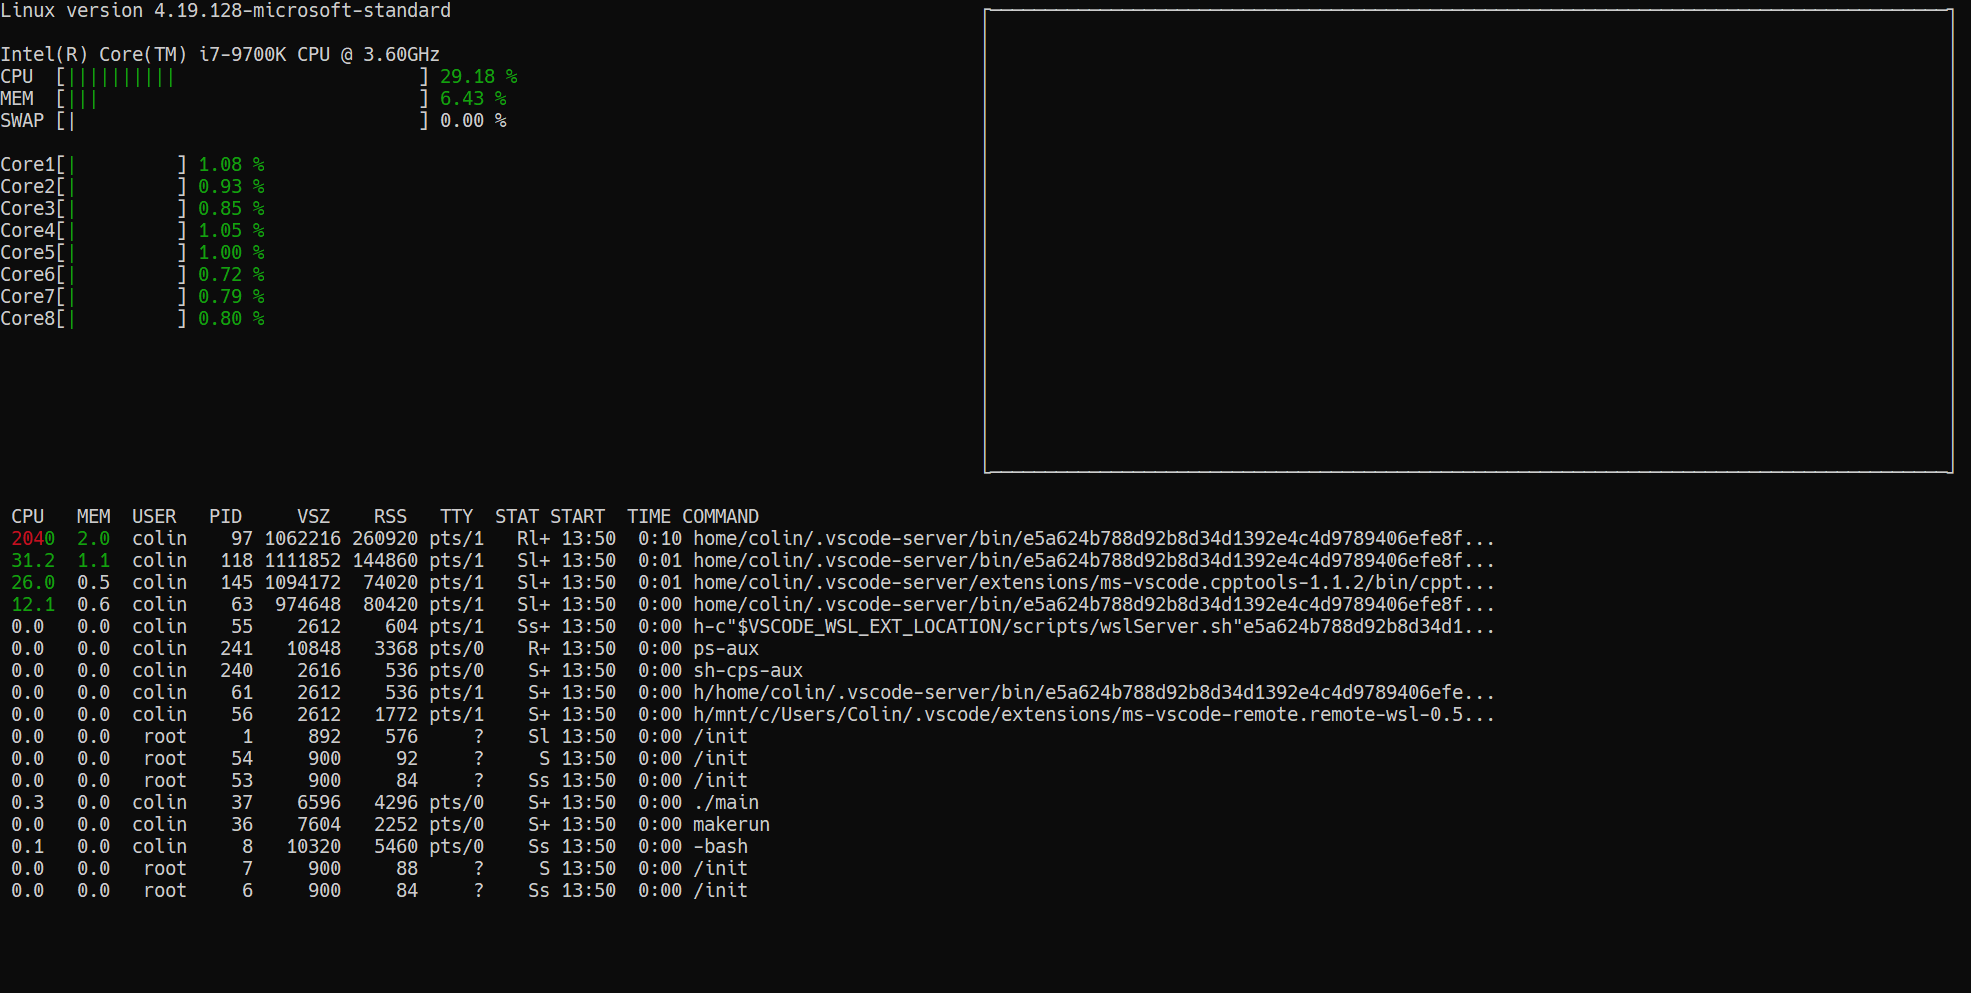
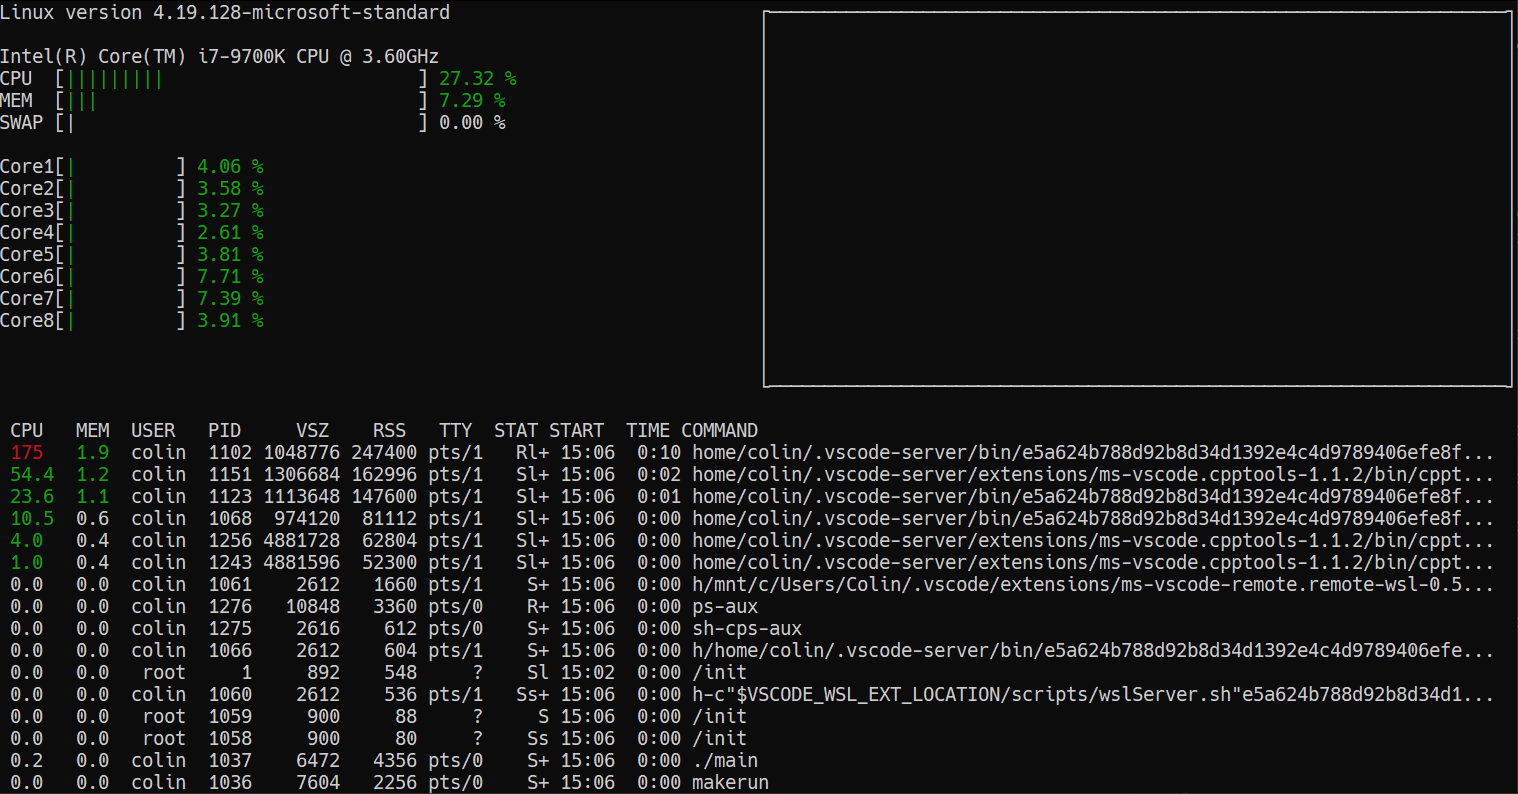
Fixed character ghosting issue

diff --git a/src/runtime.cpp b/src/runtime.cpp
@@ -46,7 +46,8 @@ void displayCpuLevel(WindowWrap& disp, float util, std::string label, int y,
 
     std::ostringstream ss;
     ss << std::setprecision(2) << std::setw(4) << std::fixed << util << " %%";
-    displayPercentColor(disp, util, ss.str(), y, start_x + displayLength + 8);
+    displayPercentColor(disp, util, ss.str() + " ", y,
+                        start_x + displayLength + 8);
 }
 
 void displayCpuCores(WindowWrap& disp, std::vector<CpuReader> cores, int y,

diff --git a/src/system.cpp b/src/system.cpp
@@ -39,7 +39,7 @@ void System::display(WindowWrap& disp)
         std::string cpuStr = sp.getCpuAsString();
         std::string memStr = sp.getMemAsString();
 
-        displayPercentColor(disp, cpu, cpuStr, i, 1);
+        displayPercentColor(disp, cpu, cpuStr + " ", i, 1);
         displayPercentColor(disp, mem, memStr, i, 7);
         mvwprintw(disp.getWin(), i, 12, sp.toString().c_str());
         i++;
